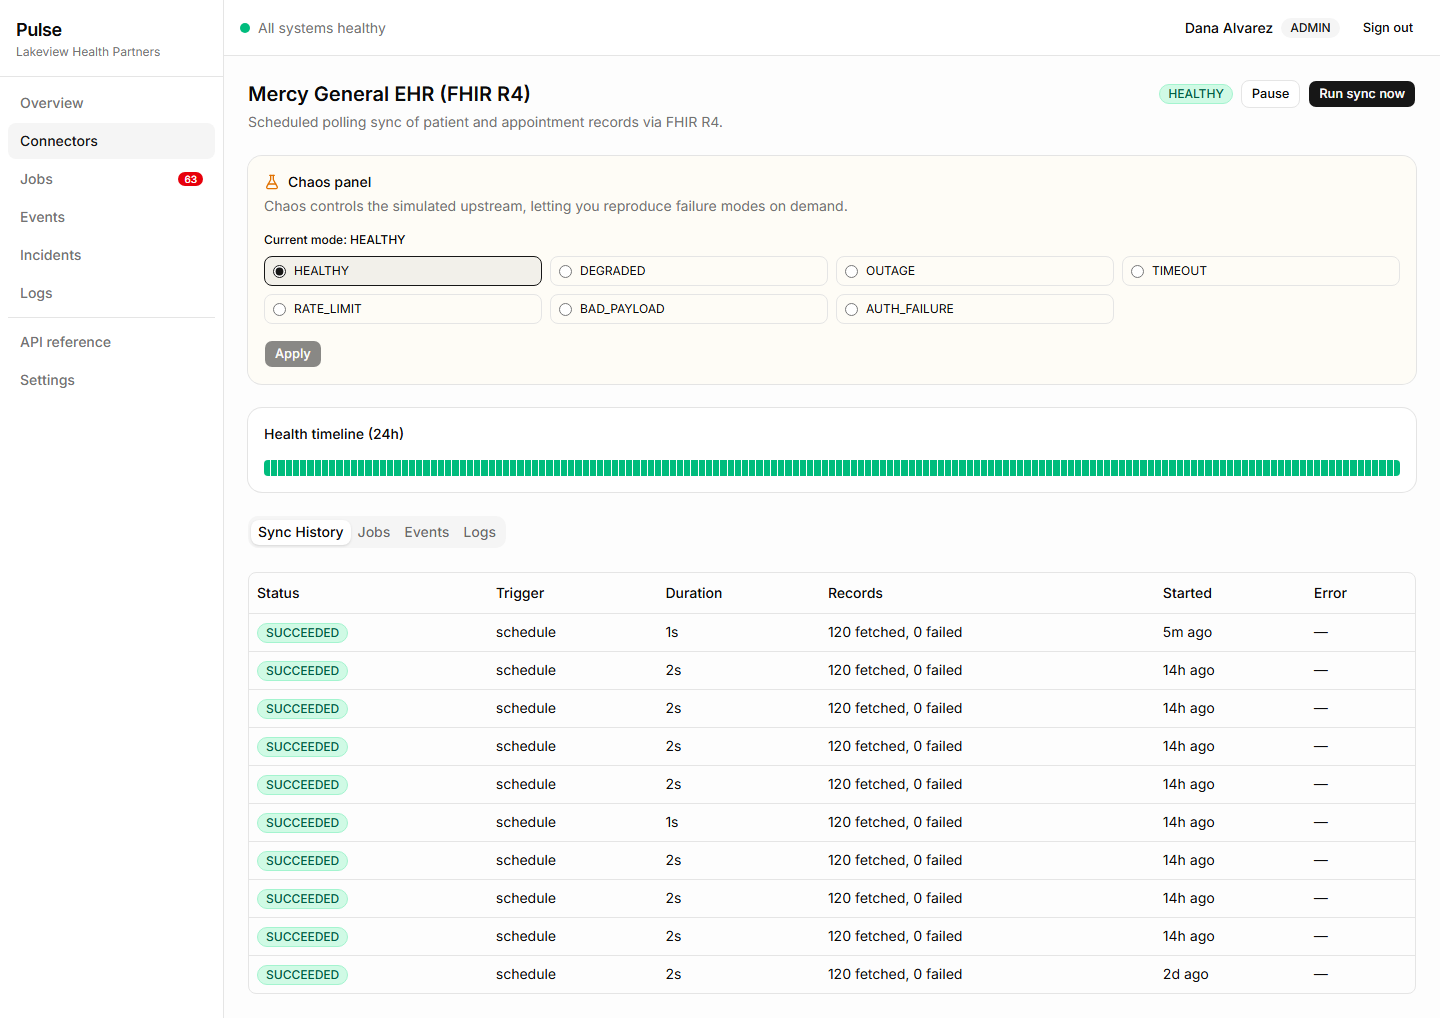
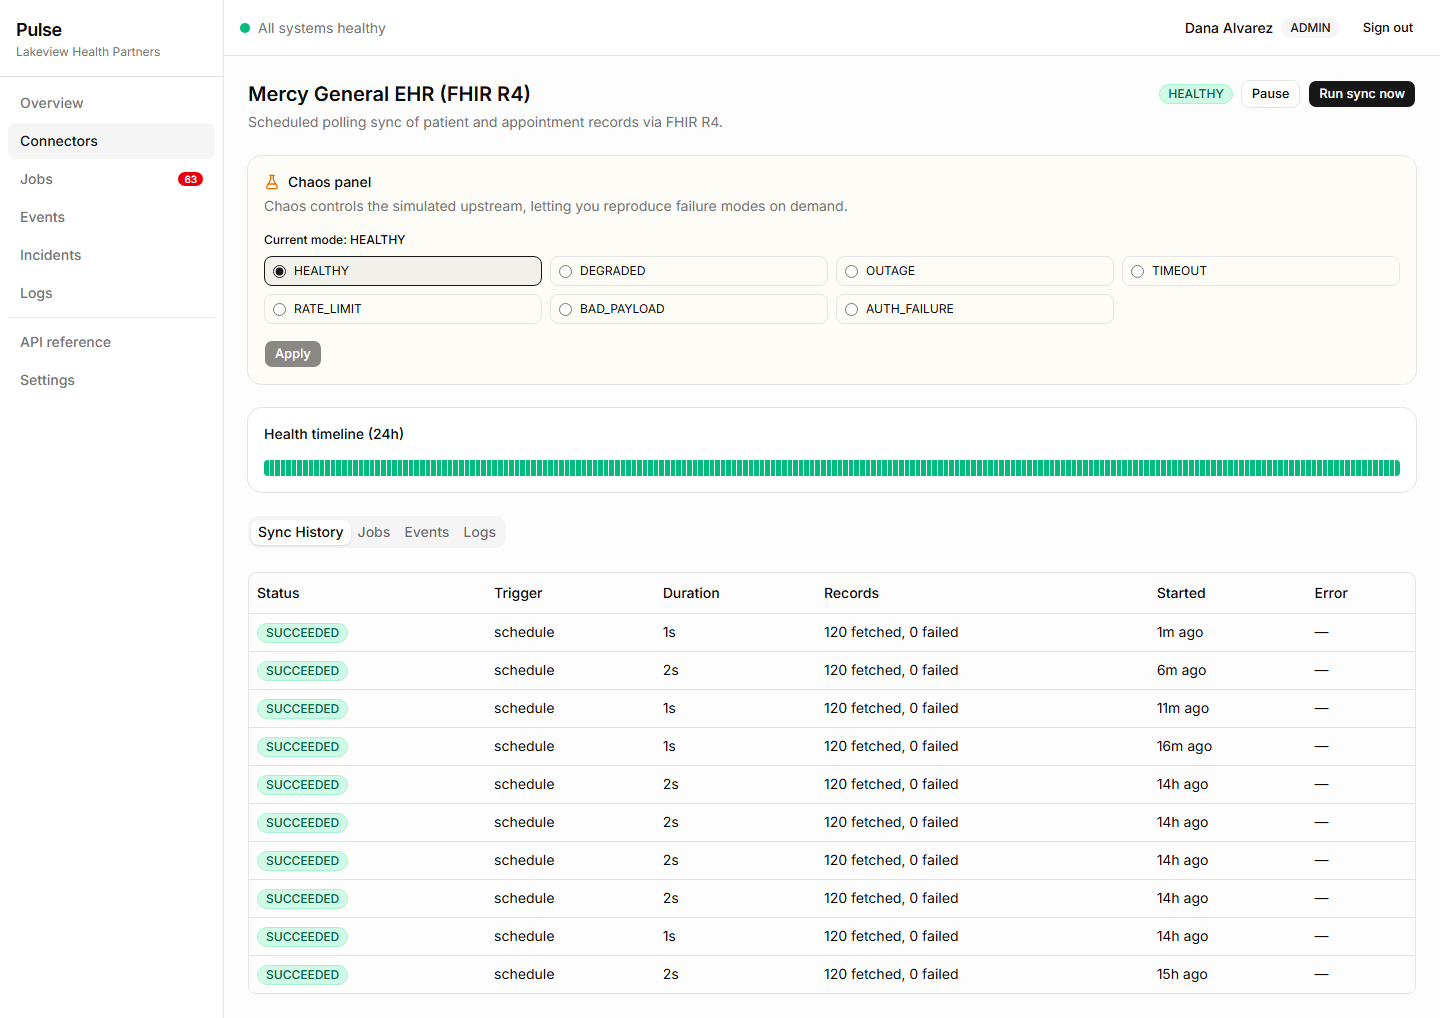
fix(screenshots): drop the deviceScaleFactor that scale:"css" was cancelling
The context asked for deviceScaleFactor 2 and the comment claimed 2x captures,
but shoot() passes `scale: "css"`, which pins output to CSS pixels and overrides
it -- the committed PNGs are 1440px wide, not 2880. Removed the dead option and
wrote down what the width actually is and why 1440 is the right number: about
1.6x GitHub's ~900px README column, at 100-200 KB per file.

Also corrects the PROGRESS claim that regeneration is "a clean diff". Framing is
stable; relative timestamps and the live 1h counters are not, so a re-run against
a ticking worker rewrites four of the five images with the same layout and newer
numbers. Recorded so nobody reads an image diff as a regression.

Verified on the published repo while checking this: all five images load and all
three mermaid diagrams render on github.com.

diff --git a/docs/plan/PROGRESS.md b/docs/plan/PROGRESS.md
@@ -140,8 +140,13 @@ Done:
   — `pnpm --filter @pulse/web screenshots` runs
   [`apps/web/scripts/capture-screenshots.mjs`](../../apps/web/scripts/capture-screenshots.mjs)
   against a running stack, signs in as the admin persona, and picks the incident to shoot by
-  querying for one with a finished AI summary. Pinned viewport, locale and timezone, and Recharts
-  left to settle first, so a regeneration is a clean diff rather than a reshoot.
+  querying for one with a finished AI summary. Pinned viewport (1440px, ~1.6x GitHub's content
+  column), locale and timezone, and Recharts left to settle first.
+
+  Regeneration is stable in *framing*, not byte-identical: relative timestamps ("5m ago") and the
+  live 1h counters move while the worker is ticking, so re-running it against a live stack
+  rewrites four of the five files with the same layout and newer numbers. Worth knowing before
+  anyone treats an image diff as a regression.
 
   I had previously recorded this criterion as needing a human. That was wrong — scripting it is
   both possible and better, because "consistent seeded state" (phase 11 task 3) is a property a
